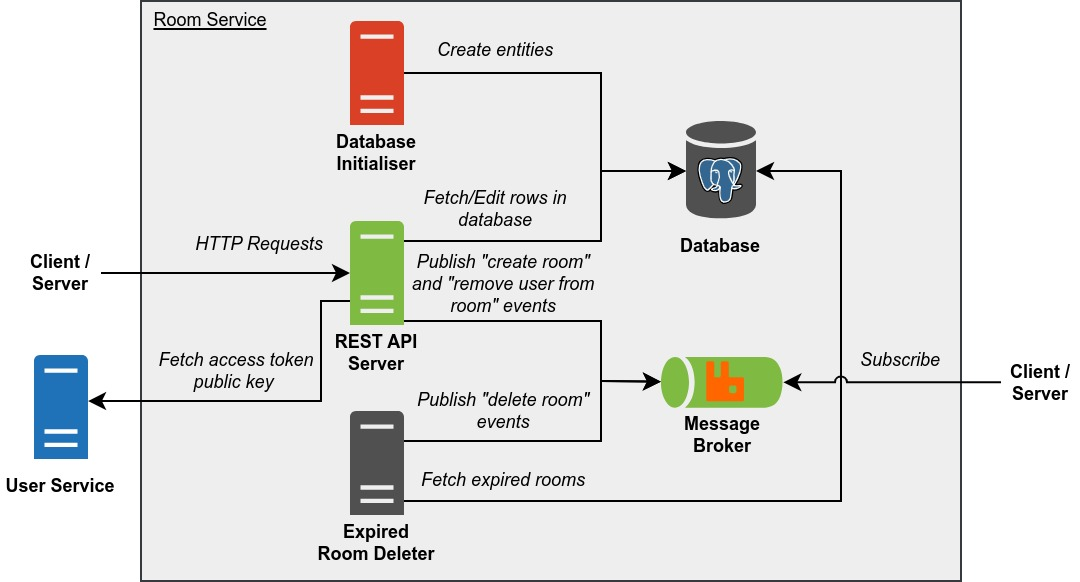
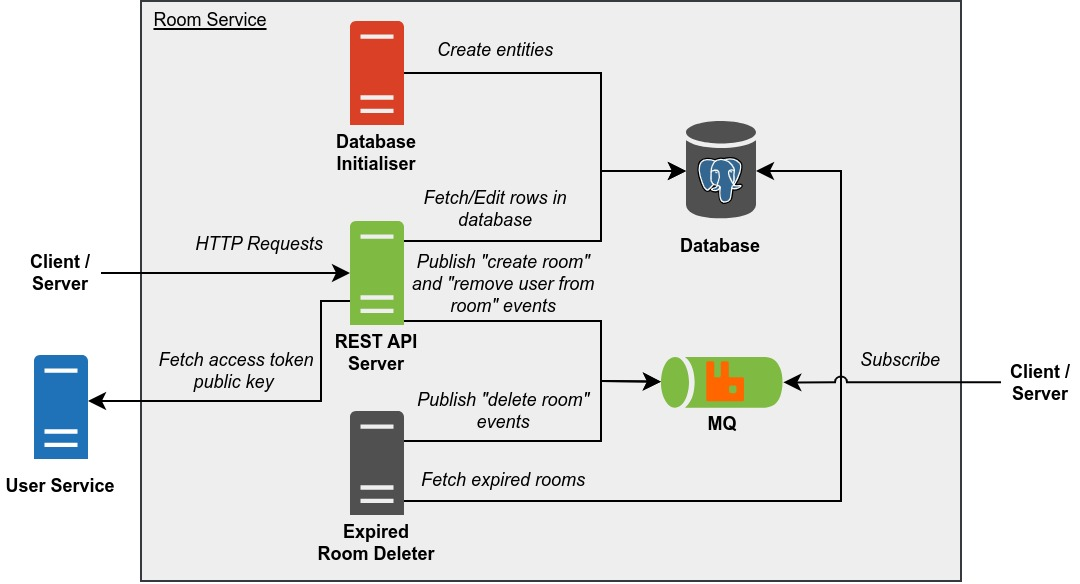
Rename "message broker" to "mq" for consistency

diff --git a/README.md b/README.md
@@ -71,9 +71,9 @@ Legend:
 
 - Database for storing room information.
 
-**Message Broker**
+**MQ**
 
-- Message broker for publishing room events.
+- MQ for publishing room events.
 
 ## Docker Images
 
@@ -157,7 +157,7 @@ This is the main deployment method for production.
 
 **Note:**
 
-- The database and message broker are hosted externally, not within the Kubernetes cluster.
+- The database and MQ are hosted externally, not within the Kubernetes cluster.
 
 **Prerequisite**
 
@@ -182,7 +182,7 @@ This is intended for development use only. It is meant to make developing other 
 
 - No horizontal auto scaling is provided.
 - The database is created by Docker compose and data is not backed up.
-- The message broker is created by Docker compose and data is not backed up.
+- The MQ is created by Docker compose and data is not backed up.
 
 **Prerequisite**
 
